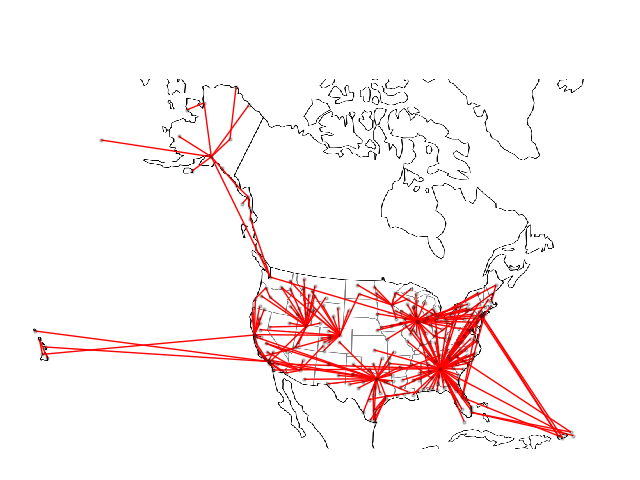
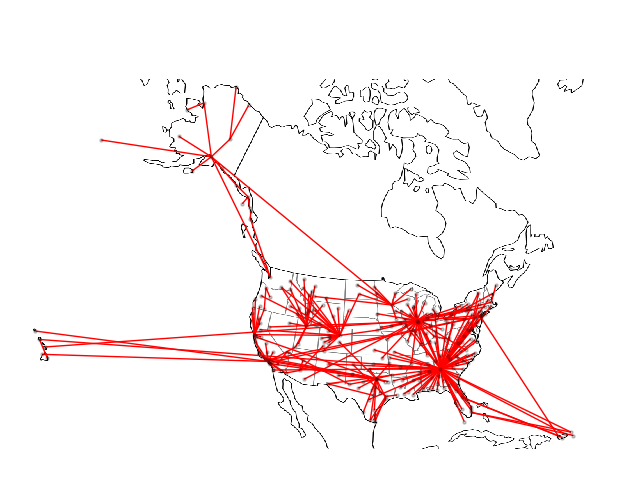
task6

diff --git a/SI_model.py b/SI_model.py
@@ -93,10 +93,11 @@ def SI_model_links(n,p, g_links, immunized=[]):
             else:
                 if destination_node not in immunized and np.random.rand() < p and departure_t>infection_times[source_node] :
                     infection_times[destination_node] = arrival_t
-                    if g_links.has_edge(source_node,destination_node):
-                        g_links[source_node][destination_node]['weight']+=1
-                    else:
-                        g_links.add_edge(source_node,destination_node,weight=1)
+                    g_links[source_node][destination_node]['weight']+=1
+                    # if g_links.has_edge(source_node,destination_node):
+                    #     g_links[source_node][destination_node]['weight']+=1
+                    # else:
+                    #     g_links.add_edge(source_node,destination_node,weight=1)
                         #print("hello", source_node, destination_node)
                     # if source_node == 41:
                     #     print(destination_node)
@@ -324,7 +325,8 @@ def task6():
     g_links = nx.Graph()
     node = range(0,279)
     g_links.add_nodes_from(node)
-
+    edges_ = list(G.edges())
+    g_links.add_edges_from(edges_,weight=0)
     for n in seed_nodes:
         g_links = SI_model_links(n, p, g_links)
         print("kkkkk")
@@ -345,107 +347,50 @@ def task6():
         for index in airport.index}
     widths = [v/(iter) for v in weights.values()]
     # widths = [n/max(widths) for n in widths]
-    print(widths)
+    # print(widths)
 
     si_animator.plot_network_usa(g_links, xycoords, edges=edges, linewidths=widths)
     plt.title("Transmission Links")
     plt.savefig('result/plot_network_usa.png')
-    plt.show()
-
+    # plt.show()
     mst = nx.maximum_spanning_tree(g_links)
     mst_edges = list(mst.edges)
     si_animator.plot_network_usa(mst, xycoords, 
                  mst_edges, [1 for _ in mst_edges])
     plt.savefig('result/plot_mst.png')
 
+    # scatter plots showing the fraction of times as a function of the following link properties
 
-# def load_data():
-#     event_data = pd.read_csv('events_US_air_traffic_GMT.txt', sep=' ')
-#     event_data = event_data.sort_values(by=['StartTime', 'EndTime'], ascending=[True, True])
-#     event_data['Source'] = event_data['Source'].astype(str)
-#     event_data['Destination'] = event_data['Destination'].astype(str)
-#     return event_data.reset_index(drop=True)
+    scatter_info = {
+        'weight': nx.get_edge_attributes(G, 'weight'),
+        'unweighted link betweenness centrality': nx.edge_betweenness_centrality(g_links)
+    }
 
-# def load_and_init_graph(nodes='0'):
-#     graph = nx.read_weighted_edgelist('./aggregated_US_air_traffic_network_undir.edg')
+    spearmanr_ls_links = []
+    for attribute, info in scatter_info.items():   
+        if attribute == 'weight':
+            x = minmax_scale([info[edge] for edge in edges_])
+        else:
+            x = minmax_scale([info[edge] for edge in edges])
+
+        # x = [info[edge] for edge in edges_]
+
+        y = widths
+        print(len(y),':y ', len(x),':x')
+        rho = sp.spearmanr(x, y).correlation
+        spearmanr_ls_links.append((attribute, rho))
     
-#     infection_times = {node: float('inf') for node in graph.nodes()}
-#     nx.set_node_attributes(graph, infection_times, 'infection_time')
+        plt.figure(figsize=(8,5))
+        plt.xlabel(f'{attribute} (normalized)')
+        plt.ylabel('Transmission fraction $f_{ij}$')
+        plt.scatter(x, y,alpha=0.9, s=30)
+        plt.title(f'Transmission fraction vs {attribute}')
+
+        plt.savefig(f'result/{attribute}')
+        plt.show()
     
-#     if type(nodes) == str:
-#         assert graph.has_node(nodes)
-#         # first node to be infected
-#         graph.nodes[nodes]['infection_time'] = min(event_data['StartTime'])
-        
-#     elif type(nodes) in [list, np.ndarray]:
-#         for node in nodes:
-#             assert graph.has_node(node)
-            
-#         for node in nodes:
-#             graph.nodes[node]['infection_time'] = min(event_data['StartTime'])
-            
-#     return graph
+    print(spearmanr_ls_links)
 
-
-
-# def simulate_infection_2(p=1, seed_nodes='0', immune_nodes=[]):
-#     # tracks edge
-#     # init
-#     event_data = load_data()
-#     graph = load_and_init_graph(seed_nodes)
-#     nx.set_edge_attributes(graph, {edge: None for edge in graph.edges}, 'infection_from')
-    
-#     for index in event_data.index:
-#         row = event_data.iloc[index]
-#         source, destination, start, end, duration = tuple(row)
-        
-#         # if source or destination is immune, no transmission
-#         if source in immune_nodes or destination in immune_nodes:
-#             continue
-        
-#         if (start >= graph.nodes[source]['infection_time']) and (np.random.rand() <= p):
-#             # only update if new infection time is smaller than target nodes infection time
-#             if end < graph.nodes[destination]['infection_time']:
-#                 graph.nodes[destination]['infection_time'] = end # update
-                
-#                 # infect an uninfected airport
-#                 graph.get_edge_data(source, destination)['infection_from'] = source
-                
-#     return graph
-
-
-
-
-# def task6():
-#     p = 0.5
-#     seed_nodes = np.random.choice(nodes, 20)
-#     transmission_count = {edge: 0 for edge in G.edges}
-#     # Run 20 simulations using random nodes as seeds and p = 0.5. 
-#     # For each simulation, record which links are used to infect yet uninfected airports.
-#     for i, seed in enumerate(seed_nodes):
-#         if i%5==0:
-#             print(f'{i}/{len(seed_nodes)}')
-        
-#         graph = simulate_infection_2(p, seed_nodes=str(seed), immune_nodes=[])
-    
-#         for edge, source in nx.get_edge_attributes(graph, 'infection_from').items():
-#             if source != None:
-#                 transmission_count[edge] += 1
-
-#     airport = pd.read_csv('US_airport_id_info.csv')
-#     airport.head()
-
-#     xycoords = {str(airport.id[index]):
-#         (airport.xcoordviz[index],airport.ycoordviz[index])
-#         for index in airport.index}
-
-#     edges = list(graph.edges)
-
-#     widths = [transmission_count[edge]/20 for edge in edges]
-
-#     si_animator.plot_network_usa(graph, xycoords, edges=edges, linewidths=widths)
-#     plt.title("Transmission Links")
-#     plt.savefig('result/plot_network_usa.png')
 #-------------- main ------------#
 
 # timestamps
@@ -455,12 +400,6 @@ max_t = float(sorted(air_traffic_GMT, key = lambda x:(x[3]), reverse = True)[0][
 steps = 20
 timestamps = np.linspace(min_t, max_t, steps)
 
-
-# event_data = load_data()
-# event_data.head()
-
-# graph = load_and_init_graph()
-# graph.nodes['0']
 # main 
 #task1()
 #task2()
